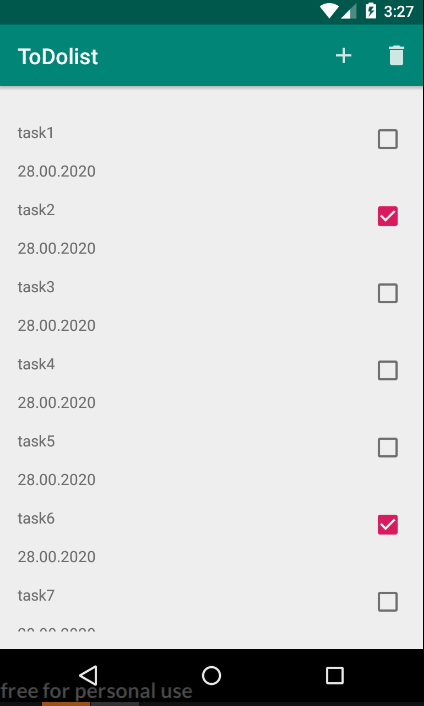
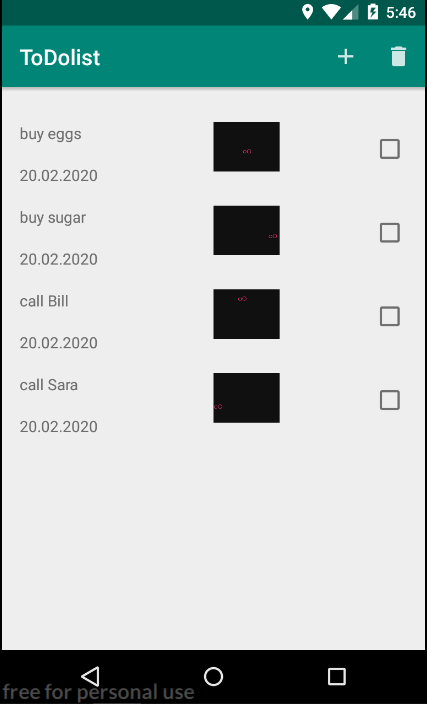
add images

diff --git a/app/src/main/java/com/sapronov/todolist/fragments/TaskFormFragment.java b/app/src/main/java/com/sapronov/todolist/fragments/TaskFormFragment.java
@@ -114,6 +114,9 @@ public class TaskFormFragment extends Fragment {
     }
 
     private void selectedVariant() {
+        if(photoURI==null){
+            photoURI=Uri.EMPTY;
+        }
         if (args != null) {
             Task task = new Task(name.getText().toString(),
                     desc.getText().toString(),photoURI.toString(), args.getInt("closed"));
